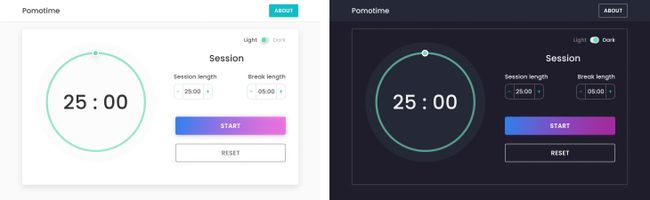
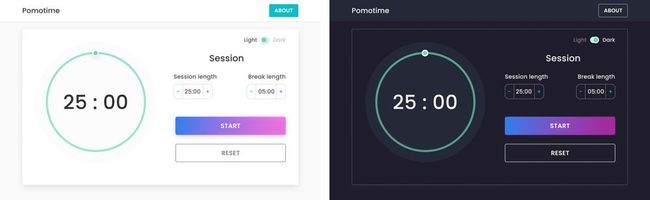
Update

diff --git a/resize-images.js b/resize-images.js
@@ -31,5 +31,5 @@ const changeFile = ({ path, width }) => {
     .toFile(`${path}.s.jpg`);
 };
 
-// changeFile({ path: './public/images/blog/post-3/img-2.jpg', width: 650 });
-changeInFolder({ directory: './public/images/labs/pomodoro', width: 650 });
+changeFile({ path: './public/images/labs/pomodoro/pomodoro6.jpg', width: 1000 });
+// changeInFolder({ directory: './public/images/labs/pomodoro', width: 650 });
